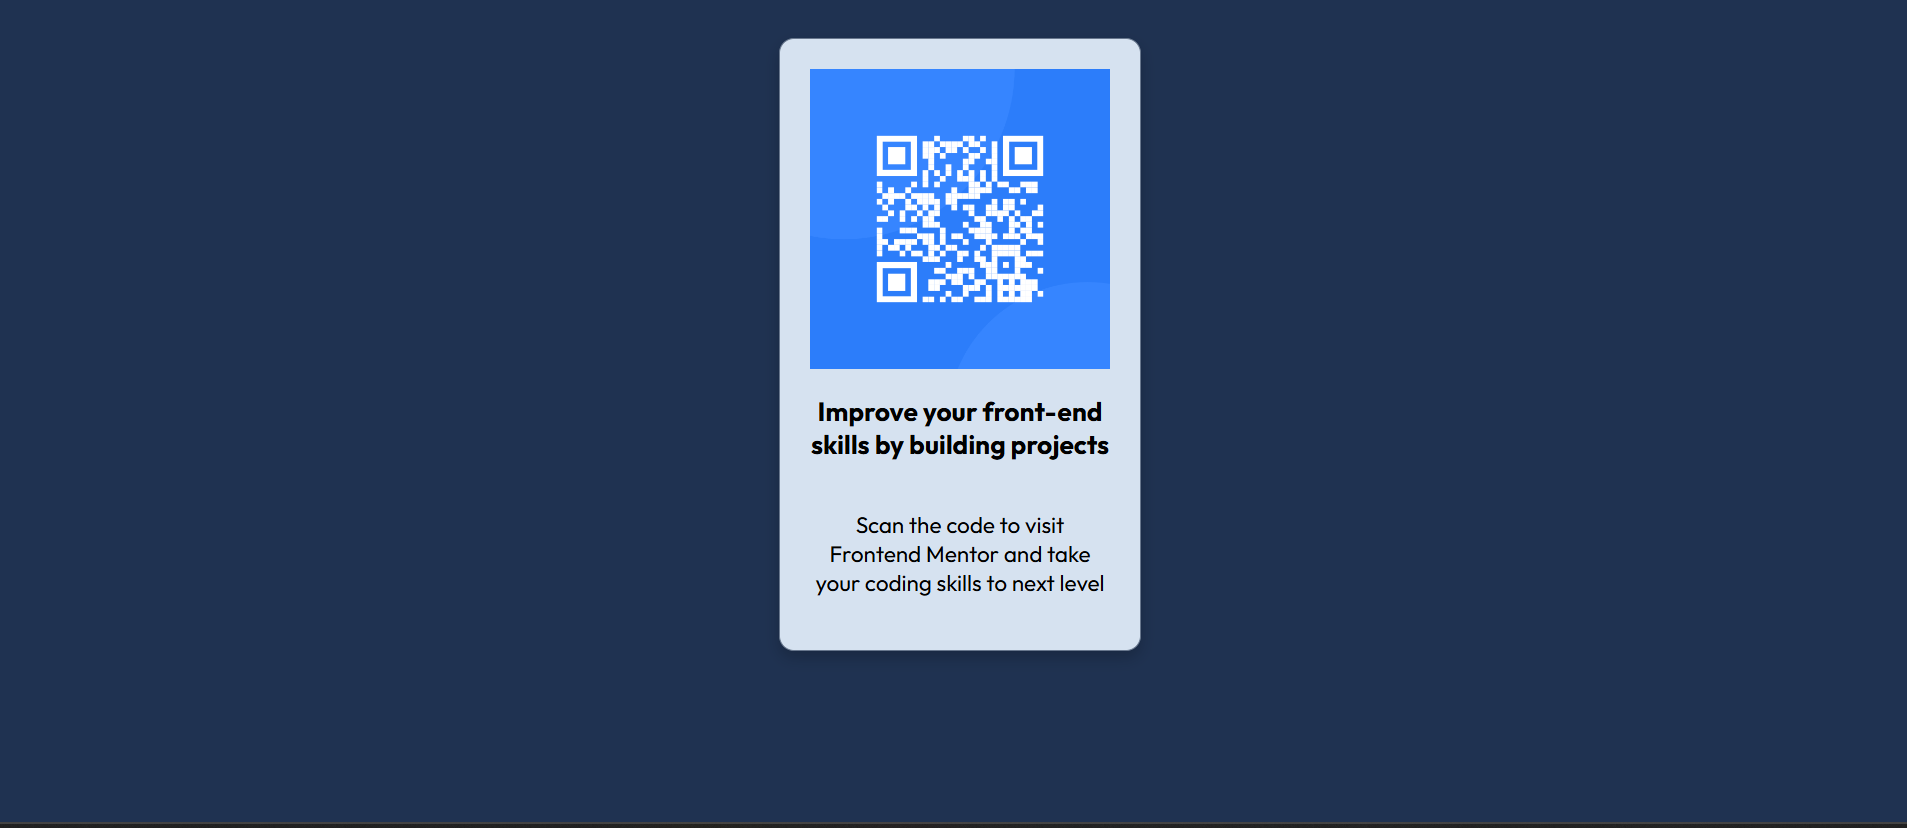
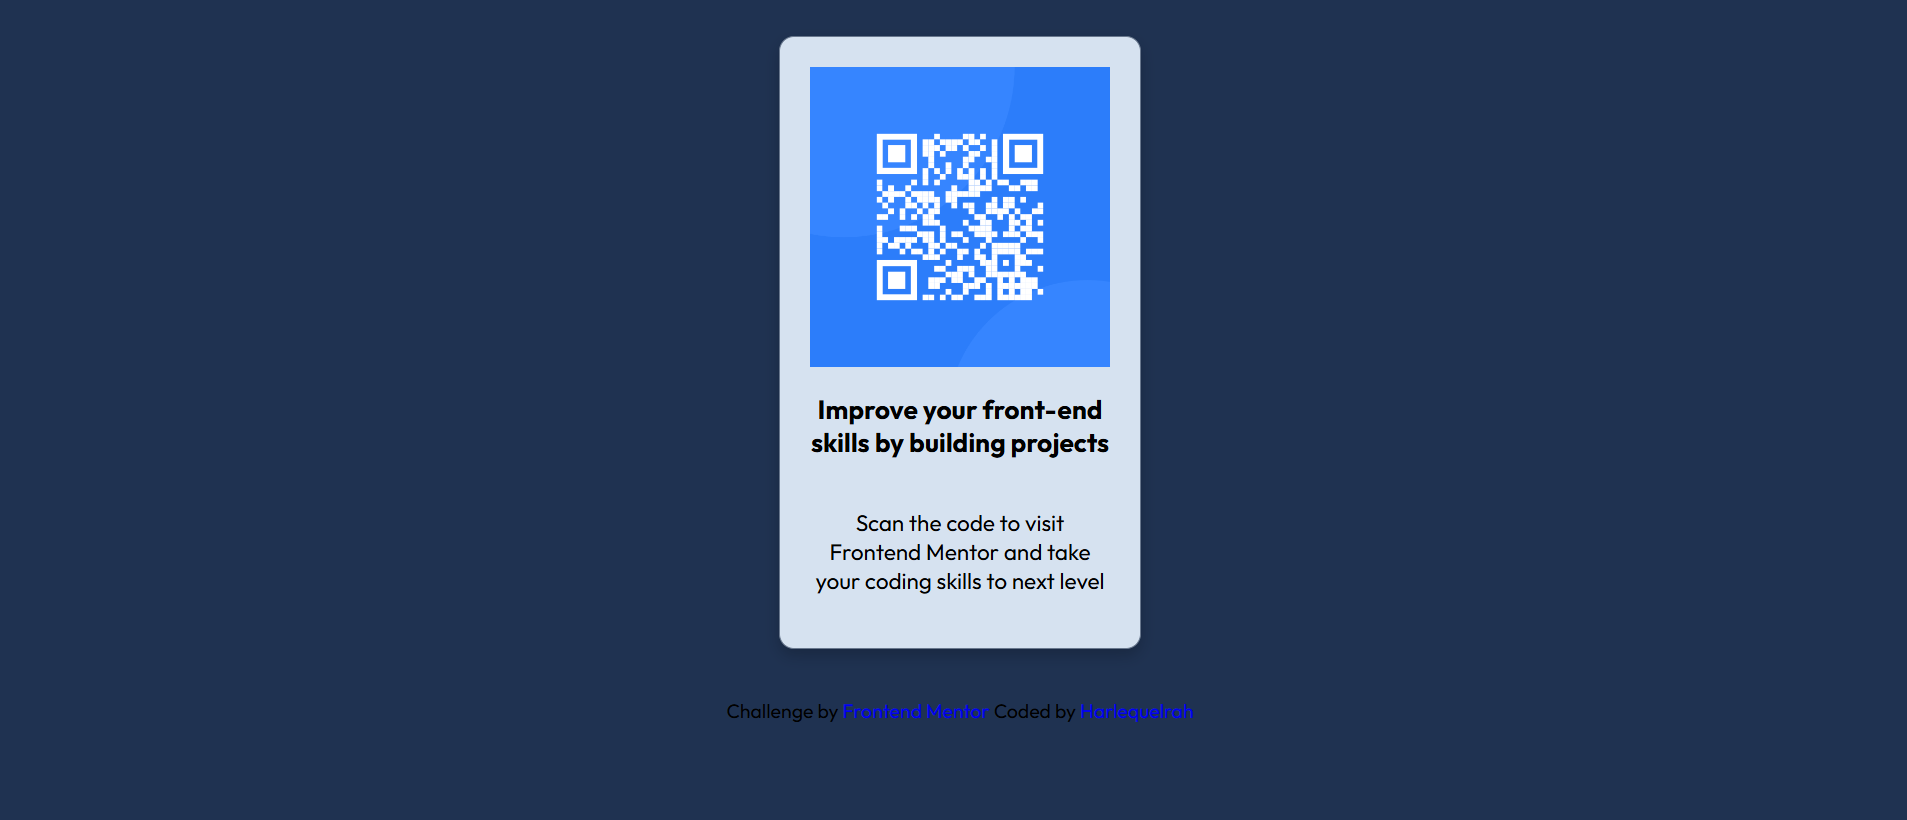
changement du screenshot et modifications des liens

diff --git a/index.css b/index.css
@@ -38,5 +38,8 @@ body .description {
 body .attribution {
   font-size: small;
 }
+body .attribution a {
+  text-decoration: none;
+}
 
 /*# sourceMappingURL=index.css.map */

diff --git a/index.scss b/index.scss
@@ -51,6 +51,9 @@ body {
 
     .attribution {
 font-size: small;
+a{
+    text-decoration:none;
+}
     }
 
 }
